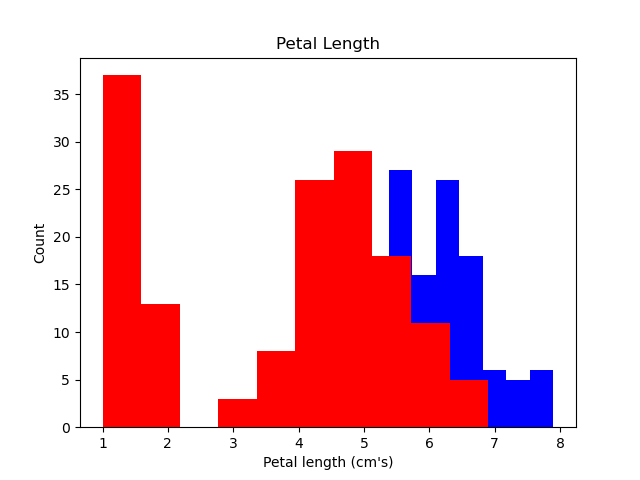
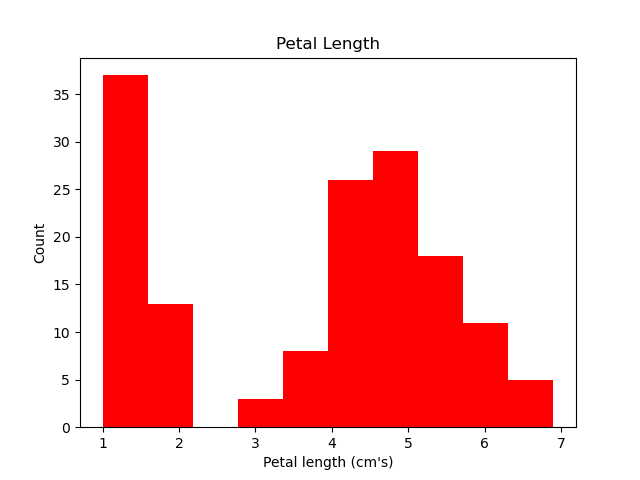
corrected histo

diff --git a/analysis.py b/analysis.py
@@ -92,7 +92,7 @@ print ("", file = out)
 fig = plt.figure(figsize = (8,3))
 sns.heatmap(iris_vir.corr(),cmap = "Purples", annot = True)
 plt.show()
-'''
+
 
 #Creating a histogram for each variable and save it to a png file
 plt.hist(iris["sepallength"], color = "b")
@@ -102,12 +102,14 @@ plt.xlabel ("Sepal length (cm's)")
 #plt.show()
 plt.savefig("sepal_length_hist.png")
 
+
 plt.hist(iris["petallength"],color = "r")
 plt.title ("Petal Length")
 plt.ylabel ("Count")
 plt.xlabel ("Petal length (cm's)")
 #plt.show()
 plt.savefig("petal_length_hist.png")
+
 
 plt.hist(iris["sepalwidth"], color = "g")
 plt.title ("Sepal Width")
@@ -116,12 +118,14 @@ plt.xlabel ("Sepal width (cm's)")
 #plt.show()
 plt.savefig("sepal_width_hist.png")
 
+'''
 plt.hist(iris["petalwidth"], color = "m")
 plt.title ("Petal Width")
 plt.ylabel ("Count")
 plt.xlabel ("Petal width (cm's)")
 #plt.show()
 plt.savefig("petal_width_hist.png")
+
 
 
 

diff --git a/README.md b/README.md
@@ -205,6 +205,18 @@ The results show the following:
 
 ### Plotting Analysis
 
+Following the summary analysis I then moved onto plotting the variables using a histogram. This will display the variables in a plot that shows the frequency that individual variables appear in the dataframe. 
+I used the following sample code, making changes to color and labels as appropriate to adequately differentiate the variables. 
+
+```python
+plt.hist(iris["sepallength"], color = "b")
+plt.title ("Sepal Length")
+plt.ylabel ("Count")
+plt.xlabel ("Sepal length (cm's)")
+#plt.show()
+plt.savefig("sepal_length_hist.png")
+```
+
 
 
 
